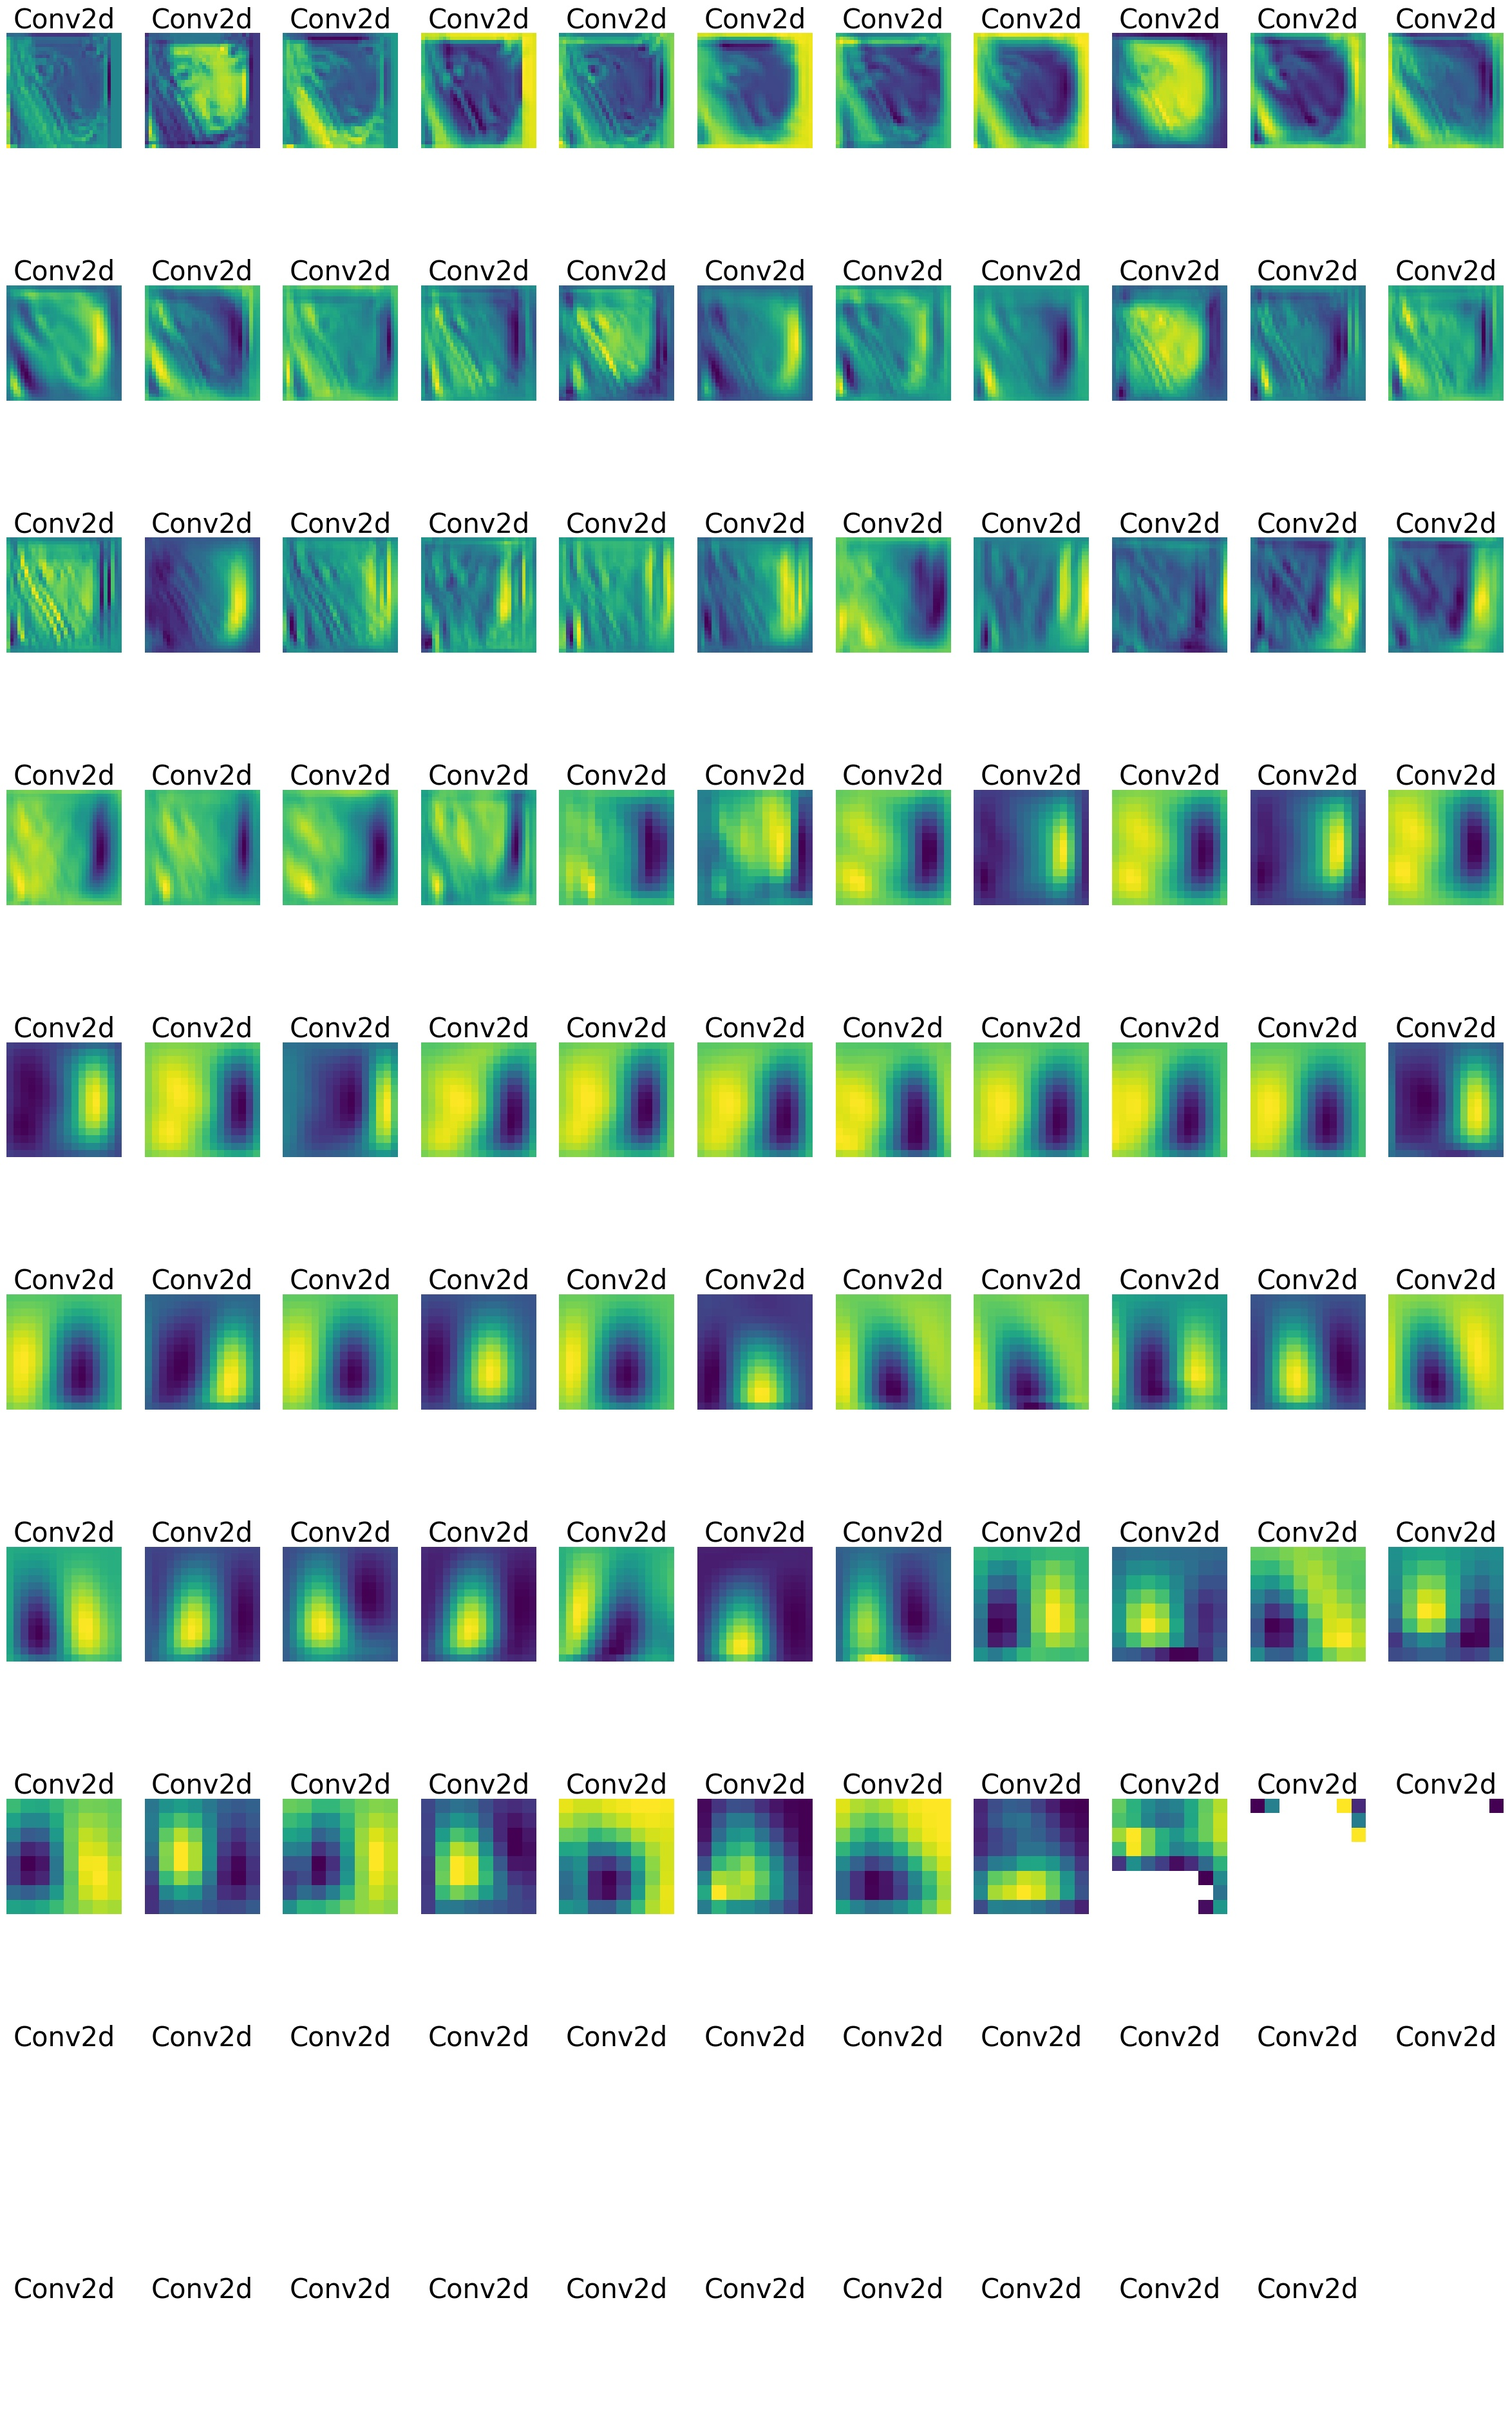
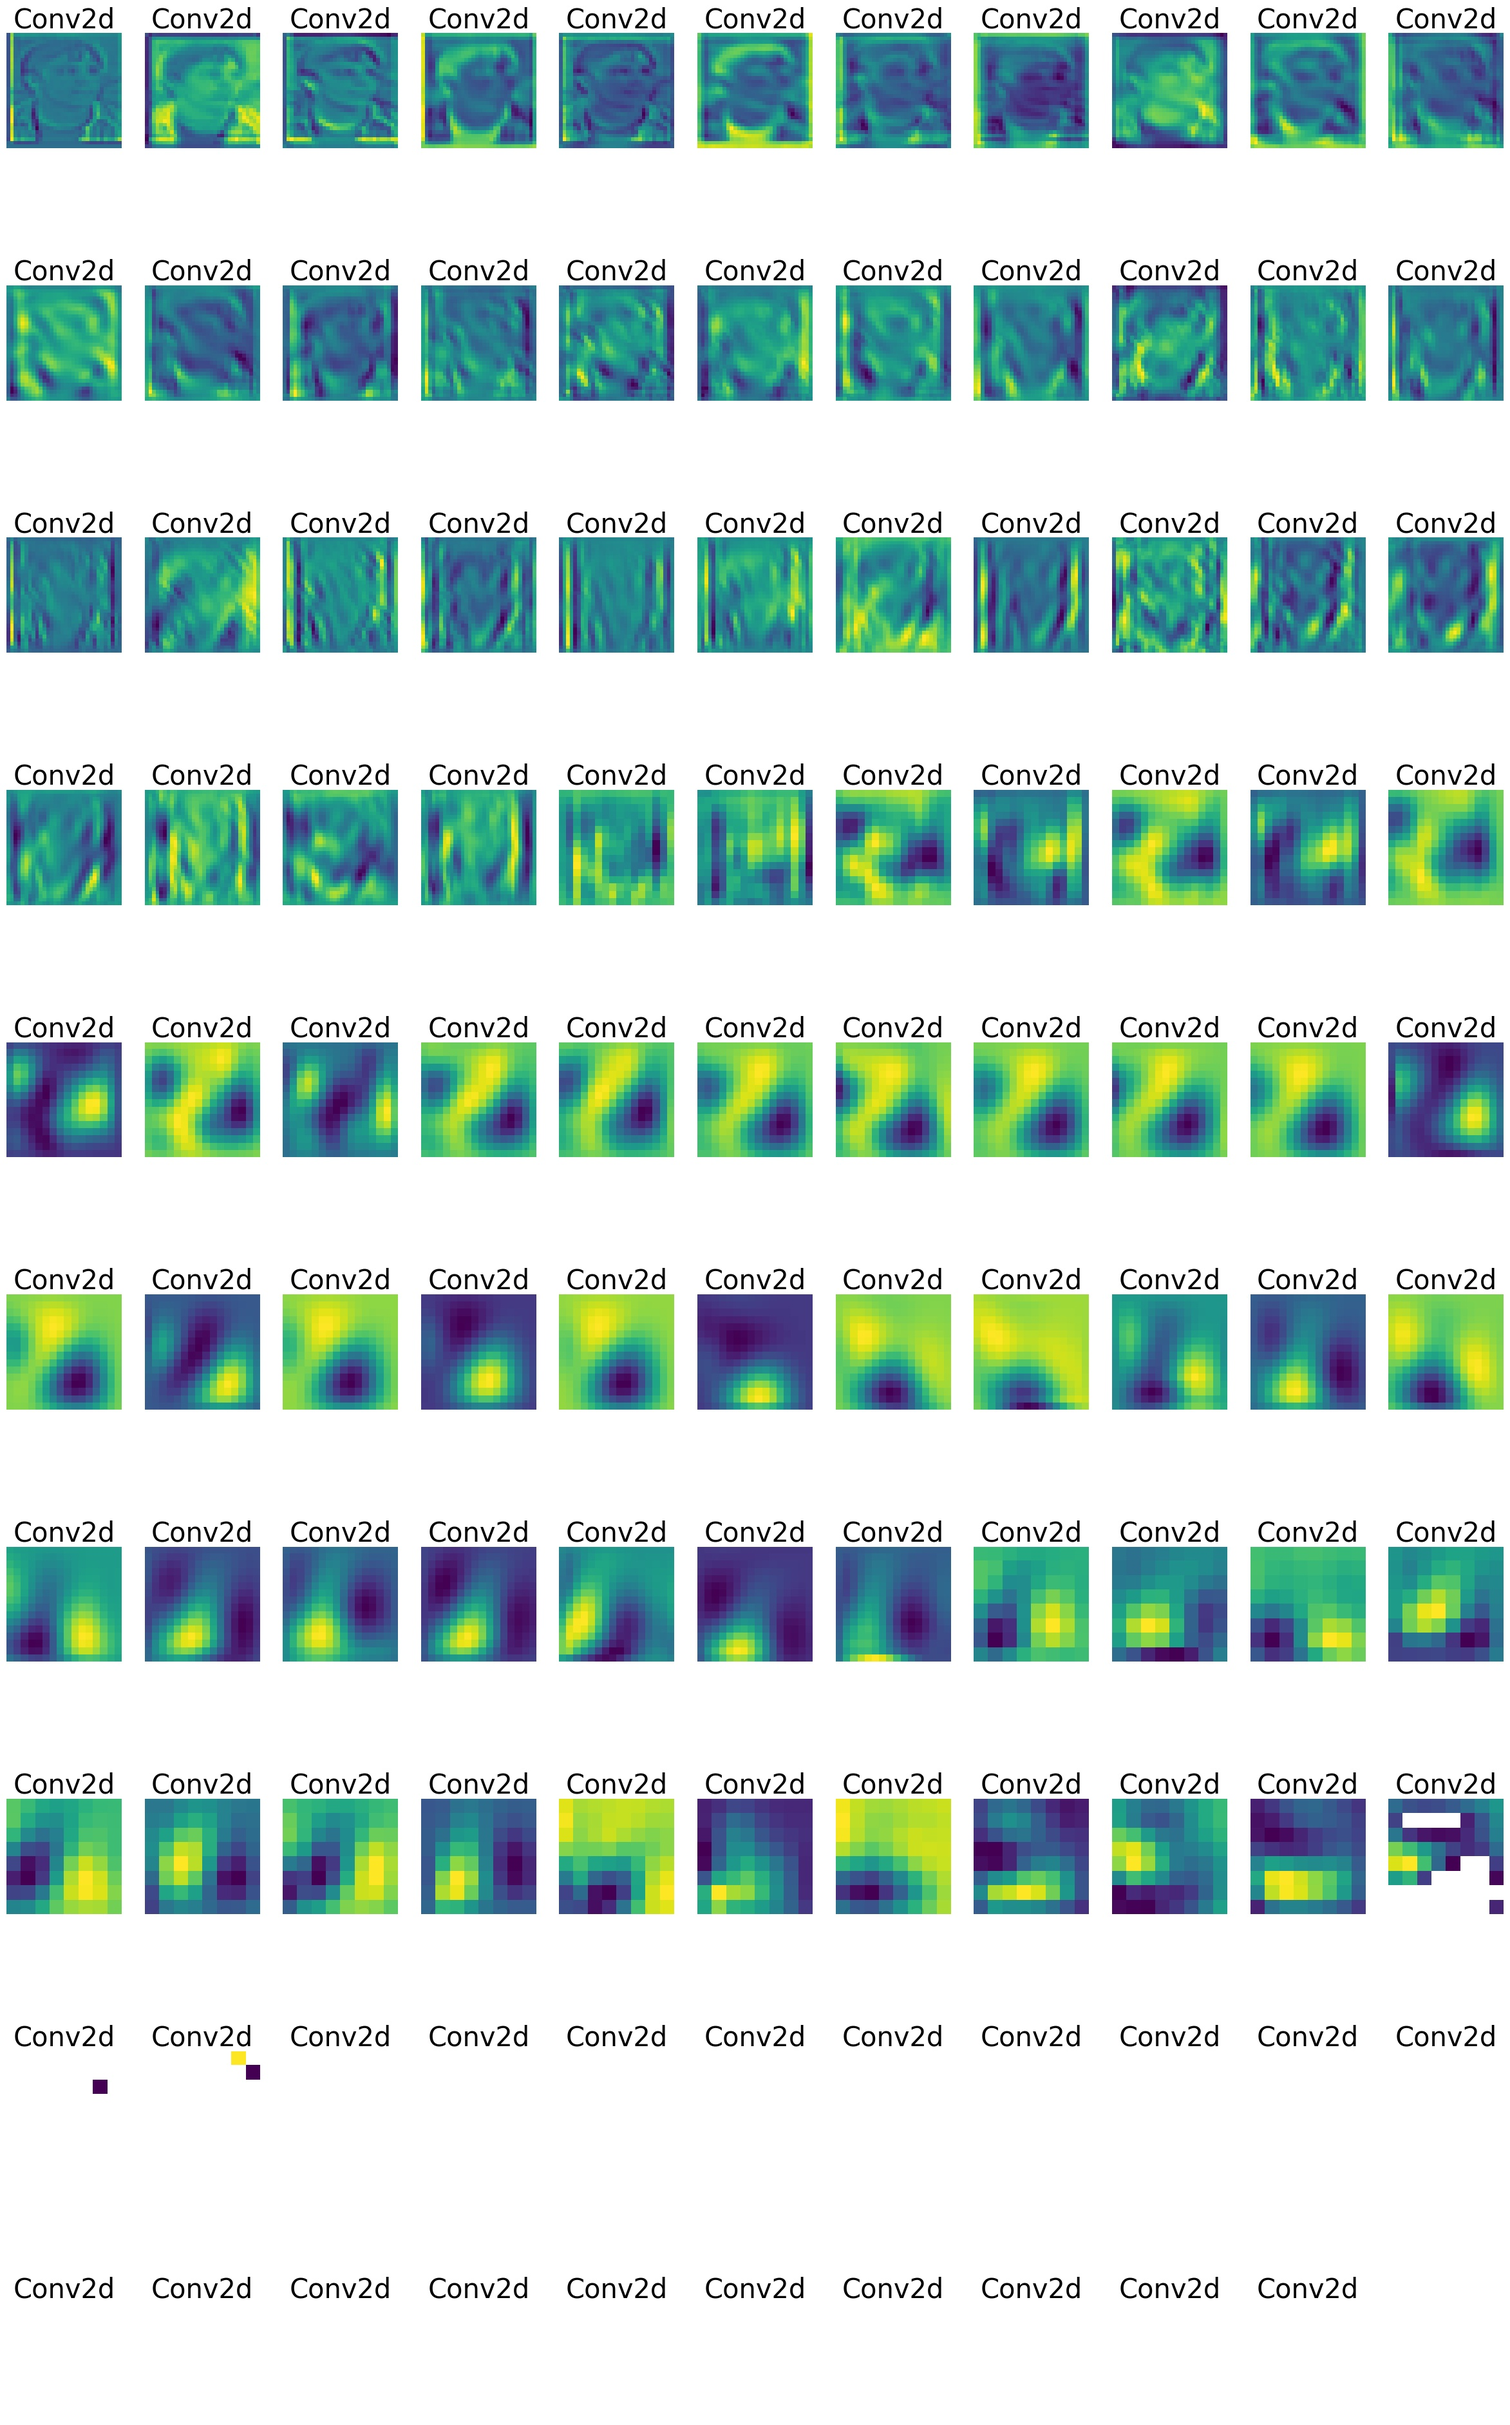
trying to get best teacher accuracy

diff --git a/Train.py b/Train.py
@@ -39,11 +39,11 @@ def getFeatureMaps(model, device, train_loader):
     return outputs
 
 
-
 def train_model(model, device, num_epochs, learning_rate, train_loader):
     # Loss and optimizer
     criterion = nn.CrossEntropyLoss()
-    optimizer = torch.optim.Adam(model.parameters(), lr=learning_rate)
+    # optimizer = torch.optim.Adam(model.parameters(), lr=learning_rate)
+    optimizer = torch.optim.SGD(model.parameters(), lr=learning_rate, momentum=0.9, weight_decay=0.0001)
 
     # Train the model
     total_step = len(train_loader)
@@ -68,6 +68,10 @@ def train_model(model, device, num_epochs, learning_rate, train_loader):
                       .format(epoch + 1, num_epochs, i + 1, total_step, loss.item()))
 
         # Decay learning rate
-        if (epoch + 1) % 20 == 0:
-            curr_lr /= 3
+        if (epoch + 1) == 100:
+            curr_lr /= 10
+            update_lr(optimizer, curr_lr)
+
+        elif (epoch + 1) == 150:
+            curr_lr /= 10
             update_lr(optimizer, curr_lr)

diff --git a/main.py b/main.py
@@ -19,8 +19,8 @@ if __name__ == '__main__':
     device = torch.device('cuda' if torch.cuda.is_available() else 'cpu')
 
     # Hyper-parameters
-    num_epochs = 8
-    learning_rate = 0.001
+    num_epochs = 200
+    learning_rate = 0.1
 
     # Image preprocessing modules
     transform = augment()
@@ -61,8 +61,7 @@ if __name__ == '__main__':
     modelSummary = False
     printModelSummary(model, firstConvWeights, allConvWeightShape, modelSummary)
 
-    printFeatureMaps(model, device, train_loader)
-    exit()
+    # printFeatureMaps(model, device, train_loader)
 
     train_model(model, device, num_epochs, learning_rate, train_loader)
 

diff --git a/Augmentation.py b/Augmentation.py
@@ -1,11 +1,16 @@
 import torchvision.transforms as transforms
 
+mean = [0.5071, 0.4867, 0.4408]
+std = [0.2675, 0.2565, 0.2761]
+
 
 def augment():
     transform = transforms.Compose([
         transforms.Pad(4),
         transforms.RandomHorizontalFlip(),
         transforms.RandomCrop(32),
-        transforms.ToTensor()])
+        transforms.ToTensor(),
+        transforms.Normalize(mean, std)
+    ])
 
     return transform
